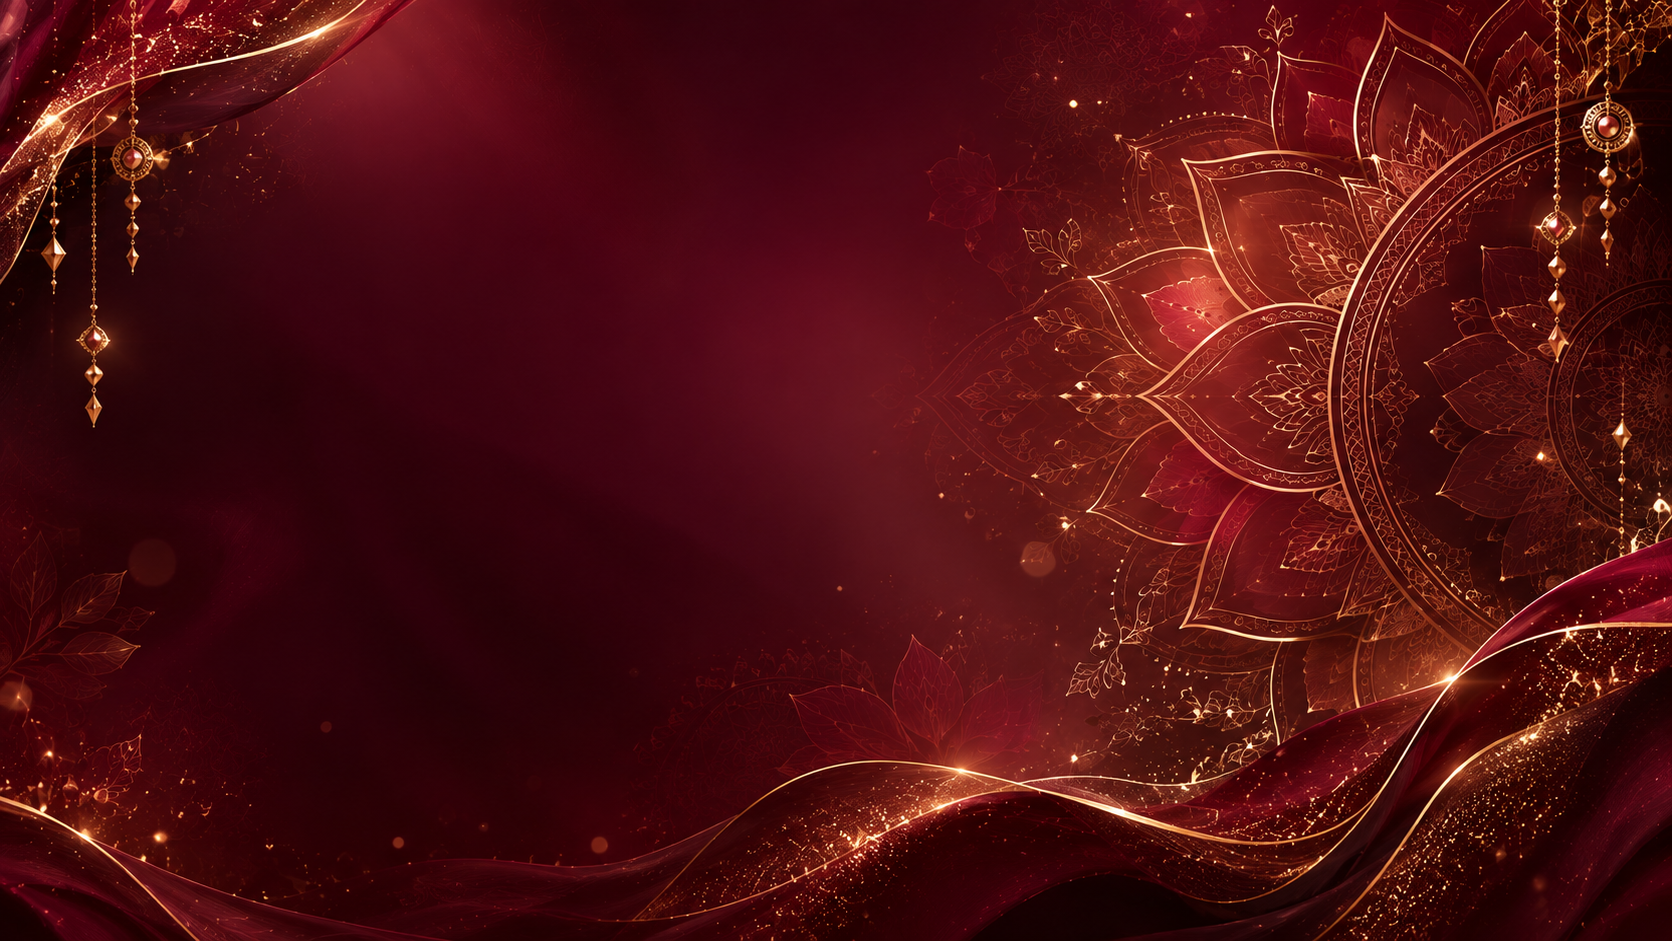
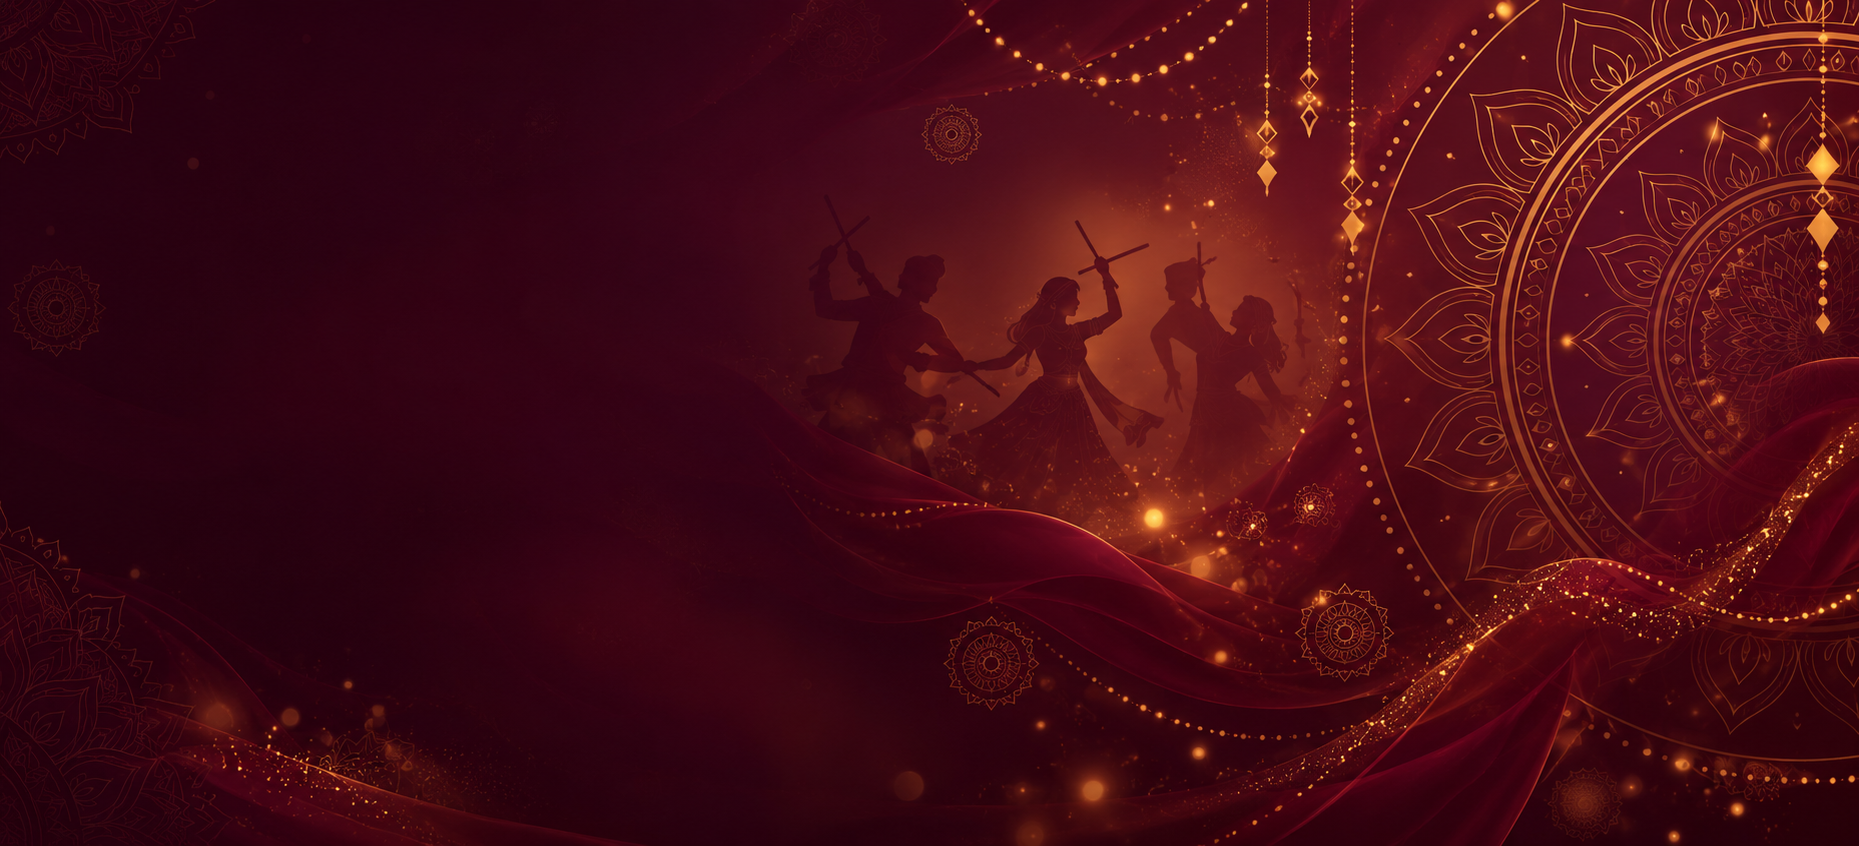
Update MaySecret Navratri campaign and responsive hero

diff --git a/src/components/hero/HeroMobile.tsx b/src/components/hero/HeroMobile.tsx
@@ -24,14 +24,13 @@ const HeroMobile: React.FC<HeroMobileProps> = ({ countdown }) => {
         ['--campaign-daily-glow' as string]: dailyTheme.glow,
       }}
     >
-      <div className="absolute inset-0 overflow-hidden" aria-hidden="true">
-        <img
-          src={campaign.heroMobileBackgroundImage}
-          alt=""
-          className="campaign-mobile-bg h-full w-full object-cover"
-          loading="lazy"
-        />
-      </div>
+      <img
+        src={campaign.heroMobileBackgroundImage}
+        alt=""
+        aria-hidden="true"
+        className="campaign-mobile-bg absolute left-0 top-0 h-auto w-full object-contain"
+        loading="eager"
+      />
 
       <div className="relative z-10 mx-auto flex max-w-md flex-col gap-4">
         <motion.div
